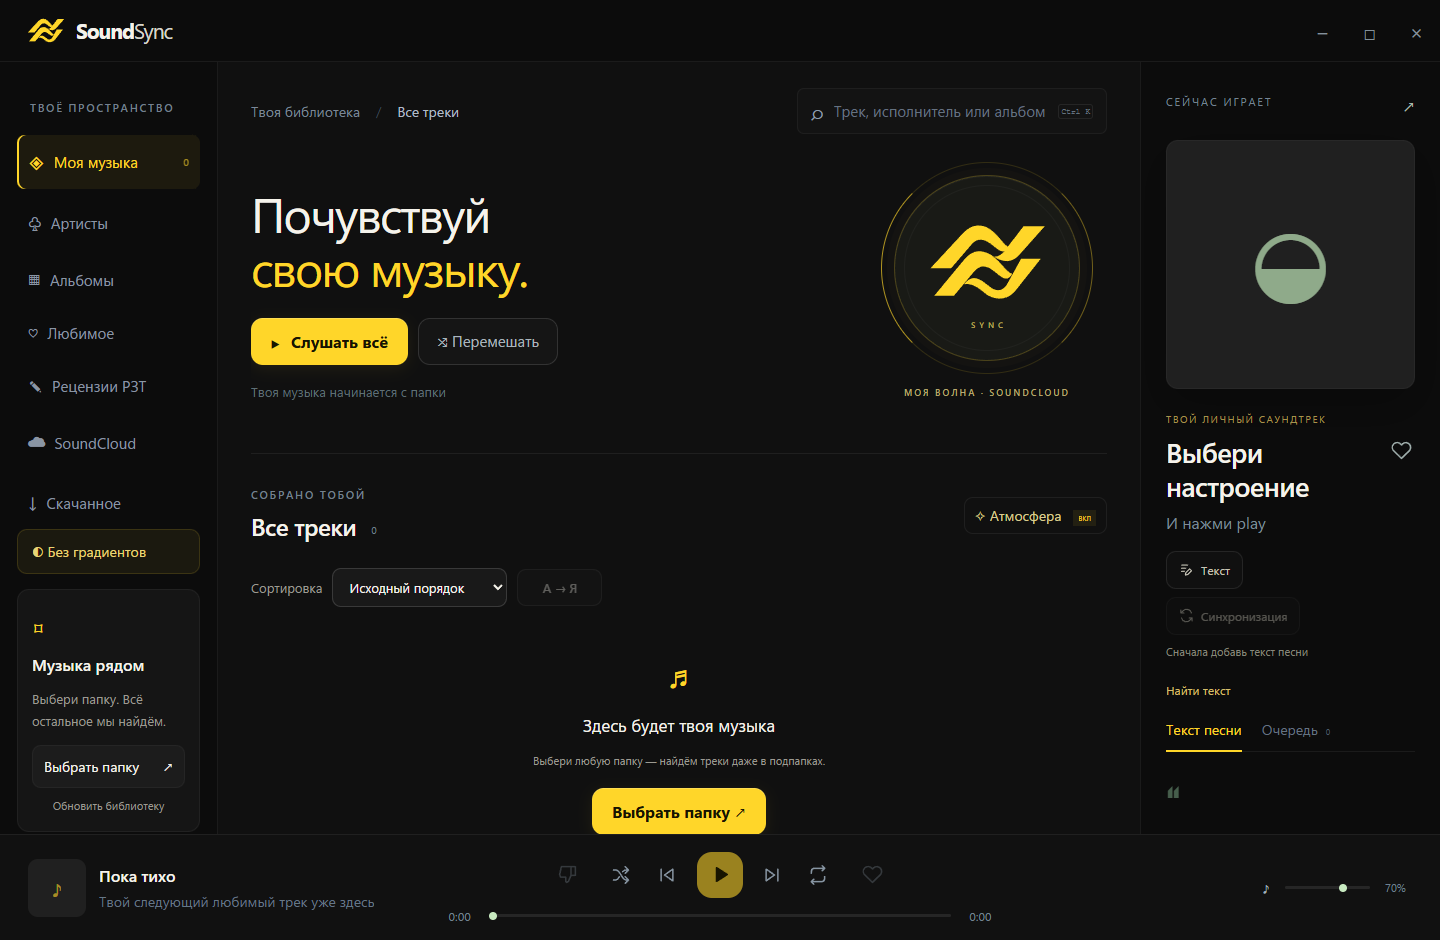
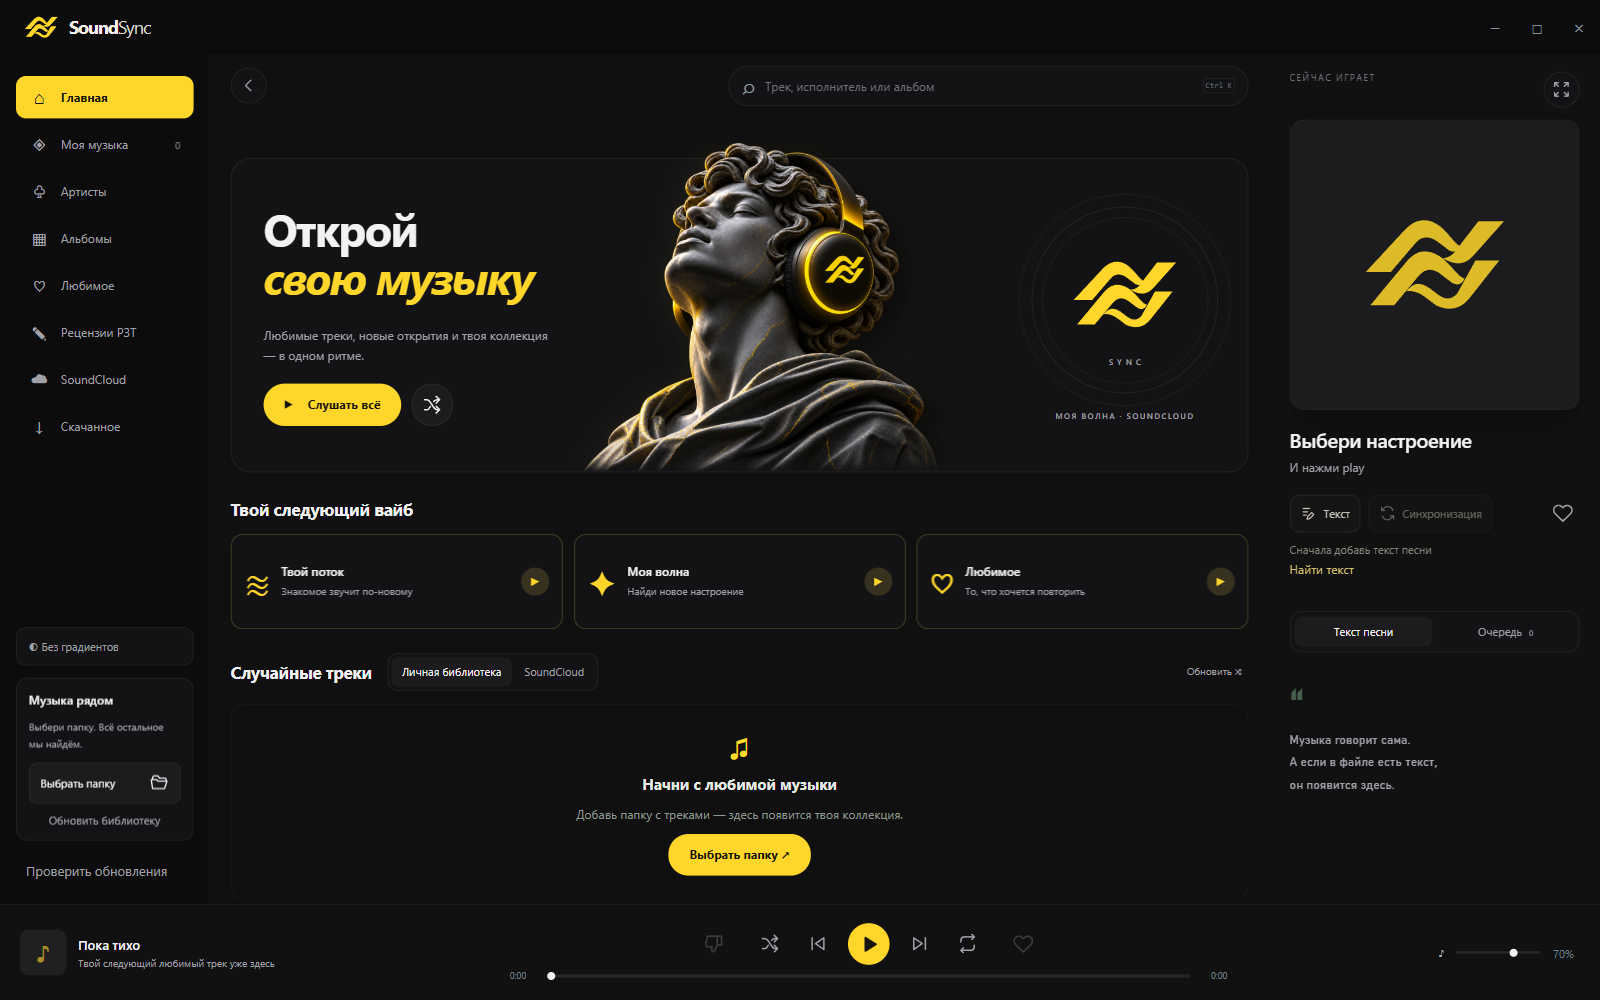
Refresh README screenshot for SoundSync 1.2.4

diff --git a/README.md b/README.md
@@ -21,7 +21,7 @@
 
 Полная сборка включает Python, FFmpeg и модель синхронизации. Пользовательской музыки, настроек, истории и ключей в ней нет. Обычно загружается только небольшой апдейт; при несовместимой или неполной основе установщик докачает необходимые компоненты с проверкой SHA-256. Контрольные суммы опубликованы в релизах.
 
-![Интерфейс SoundSync](docs/screenshot.png)
+![Главный экран SoundSync 1.2.4](docs/screenshot.png)
 
 ## Возможности
 
